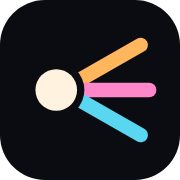
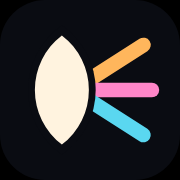
feat(site): ✨ a lens in place of the prism, in the scene and in the mark
A study of the metaphor: the private self is still white light and every
identity one colour, but the glass that splits it is a lens seen from the
side.

- Home: the white thread meets the top face of the lens and fans out inside
  it; each colour leaves the bottom face from its own point, marked by a small
  glow, and continues to its card. The lens is narrower on a phone.
- The mark is that scene turned a quarter: a white lens and three colours
  leaving it. Favicon, Apple icon and the share picture follow.

No visible text changes: the site never named the prism.

diff --git a/scripts/og/og.html b/scripts/og/og.html
@@ -109,25 +109,31 @@
     <div class="brand">
       <svg viewBox="0 0 32 32" fill="none">
         <path
-          d="M10 16 25 7"
+          d="M12 16 26.5 6.5"
           stroke="#ffb65c"
-          stroke-width="2.4"
+          stroke-width="2.6"
           stroke-linecap="round"
         />
         <path
-          d="M10 16h16.5"
+          d="M12 16h17"
           stroke="#ff86c8"
-          stroke-width="2.4"
+          stroke-width="2.6"
           stroke-linecap="round"
         />
         <path
-          d="m10 16 15 9"
+          d="m12 16 14.5 9.5"
           stroke="#5ad7f0"
-          stroke-width="2.4"
+          stroke-width="2.6"
           stroke-linecap="round"
         />
-        <circle cx="9" cy="16" r="4.6" fill="#05060a" />
-        <circle cx="9" cy="16" r="3.4" fill="#fff3df" />
+        <path
+          d="M9.5 2.5a15.5 15.5 0 0 1 0 27 15.5 15.5 0 0 1 0-27Z"
+          fill="#05060a"
+        />
+        <path
+          d="M9.5 4.6a13.6 13.6 0 0 1 0 22.8 13.6 13.6 0 0 1 0-22.8Z"
+          fill="#fff3df"
+        />
       </svg>
       <span>brig<span class="dot"></span>id</span>
     </div>

diff --git a/AGENTS.md b/AGENTS.md
@@ -40,7 +40,7 @@ there.
 | `src/data/competitors.ts` | The products brig·id is compared with, their facts and sources                                                                                                          |
 | `src/data/editions.ts`    | seedling, grove and forest: what is decided about each                                                                                                                  |
 | `src/data/nav.ts`         | Navigation, and `CONTACT`: where "Contact us" leads                                                                                                                     |
-| `src/components/`         | Header, footer, icons, the hero's prism scene                                                                                                                           |
+| `src/components/`         | Header, footer, icons, the hero's lens scene                                                                                                                            |
 | `src/lib/derive.ts`       | The per-site identifier demo of `/identities/`                                                                                                                          |
 | `worker/`                 | The Cloudflare Worker: security headers, `www` redirect, `/api/status`                                                                                                  |
 | `scripts/check-dist.mjs`  | Fails the build if a page needs an inline script or style                                                                                                               |
